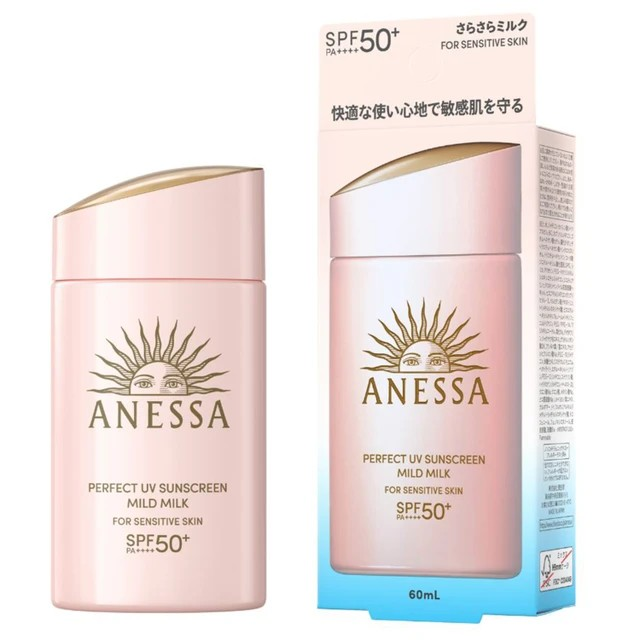
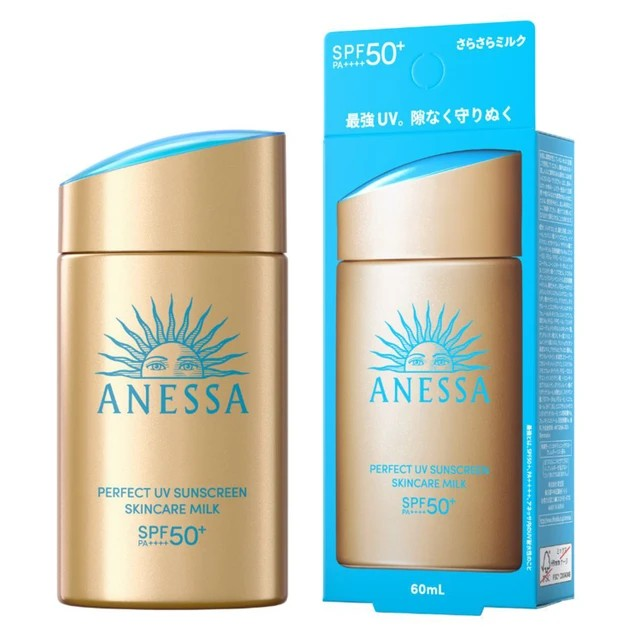
Hoàn thiện và đăng chính thức Anessa Perfect UV Skincare Milk Na
Chủ website gửi lại đúng thư mục ảnh (dòng kiềm dầu, khác Mild Milk).
Vẽ lại 2/6 ảnh có mặt người thay vì bỏ hẳn, giữ nội dung hợp lệ.

diff --git a/CLAUDE.md b/CLAUDE.md
@@ -449,11 +449,11 @@ Chủ website yêu cầu (tháng 9/2026): 4 khu bán hàng riêng biệt, mỗi 
 - **Video ngắn giới thiệu sản phẩm** (không bắt buộc, thêm tháng 9/2026): khác với "Video ngắn" ở trang chủ (liên kết ra Facebook/YouTube, mở tab mới, xem mục "Video ngắn" phía trên) — video sản phẩm là **file tự tải lên, phát ngay trên trang** bằng thẻ `<video>` chuẩn của trình duyệt (không nhúng mã bên thứ ba). Đặt file trong `public/videos/<tên-sản-phẩm>/`, điền frontmatter `video` (đường dẫn bắt đầu bằng `/videos/...`, build báo lỗi nếu không đúng dạng) và `videoThumbnail` (ảnh đại diện/poster, bắt buộc đi kèm — không tự trích được khung hình từ file video). Có video thì video hiện là **lựa chọn đầu tiên và MẶC ĐỊNH đang mở** trong khung ảnh chính khi vào trang (ảnh sản phẩm lùi thành lựa chọn kế tiếp trong dải ảnh nhỏ, bấm vào mới đổi sang xem ảnh) — khác với hành vi ban đầu (video chỉ là 1 lựa chọn trong dải ảnh nhỏ, mặc định vẫn hiện ảnh). Bấm ảnh nào trong dải ảnh nhỏ thì video tự dừng; hiệu ứng kính lúp phóng to (rê chuột) tự tắt khi đang xem video. Xem `[department]/[slug].astro` (biến `hasVideo`) và `content.config.ts`.
   - **Trạng thái tháng 9/2026:** đang gắn **tạm 1 video mẫu** (không phải video thật, do chủ website gửi để xem thử giao diện) vào sản phẩm Cốm vi sinh Lacto Biomin Gold+ để xem trực tiếp trên web — cần thay bằng video thật của sản phẩm hoặc gỡ bỏ (xóa 2 dòng `video`/`videoThumbnail` và file trong `public/videos/`) khi chủ website xác nhận xong.
 - **Trạng thái tháng 9/2026 (cập nhật tháng 10/2026):** khu Thực phẩm chức năng — 37 sản phẩm đã đăng: Blackmores Omega Double (650.000đ/lọ 90 viên, ảnh thật + 2 ảnh phụ do chủ website gửi tháng 10/2026 thay cho ảnh giữ chỗ ban đầu, số công bố 8591/2021/ĐKSP, chuyển sang nhóm con mới **"Dầu cá - Omega 3"** — xem mục "Nhóm cha/nhóm con ở menu trái" — thay vì nhóm "Vitamin & khoáng chất" chung chung lúc trước), Cốm vi sinh Lacto Biomin Gold+, Feroglobin B12 viên, Osteocare viên, Siro Feroglobin B12, Siro Osteocare, Liveril (nhóm "Gan - Mật", số công bố 8719/2019/ĐKSP), Pregnacare Plus Omega-3 (nhóm "Vitamin tổng hợp", dual pack viên nén + viên nang Omega-3 cho mẹ bầu/mẹ cho con bú, số công bố 9184/2019/ĐKSP), Pregnacare Max (nhóm "Vitamin tổng hợp", bản nâng cao của Pregnacare Plus — có thêm canxi và acid folic dạng L-Methylfolate, số công bố 1475/2024/ĐKSP, **sản phẩm khuyến mãi đầu tiên của site**: giá 495.000đ, giá gốc 550.000đ, tự hiện nhãn "-10%"), Visionace Original (nhóm "Mắt & thị lực", hỗ trợ thị lực, 432.000đ, **chưa điền số công bố** vì ảnh nhãn quá mờ — xem ghi chú), Pregnacare Breast-feeding (nhóm "Vitamin tổng hợp", dual pack cho mẹ cho con bú, 712.000đ, số công bố 10645/2019/ĐKSP), và 3 sản phẩm **Doppelherz (Đức, nhập bởi Công ty CP Mastertran, KHÔNG có video, chỉ ảnh)**: Aktiv Vital Pregna (nhóm "Vitamin tổng hợp", 375.000đ), Aktiv Anti Stress (nhóm "Thần kinh & trí nhớ", 349.000đ, công dụng ghi đúng nhãn là giảm căng thẳng/tập trung, không ghi "cải thiện trí nhớ"), Aktiv Omega-3 + Folic acid + B6 + B12 (nhóm "Vitamin tổng hợp", 335.000đ) — ảnh chỉ dùng ảnh hộp/vỉ/nhãn sạch, đã LOẠI các banner có logo Nhà thuốc Long Châu (xem ghi chú) — và **6 sản phẩm Doppelherz đợt 2** (cũng không video, banner tự thiết kế): Aktiv Liver Complex (Gan - Mật, 395.000đ), Aktiv-Meno (nhóm mới "Sinh lý - Nội tiết tố", 411.000đ), Aktiv Magnesium + Calcium + D3 (Canxi & Vitamin D, 375.000đ), Aktiv Coenzyme Q10 (Tim mạch, 375.000đ, số công bố 8117/2019/ĐKSP do chủ website xác nhận), Kinder Omega-3 Syrup (Thần kinh & trí nhớ, 535.000đ, số công bố 2876/2018/ĐKSP do chủ website xác nhận, không đưa câu ADHD trên nhãn vào bài), Kinder Optima Mini-Tabs (Đề kháng & miễn dịch, 506.000đ) — cùng 2 sản phẩm kẽm cho trẻ, không video, banner tự thiết kế, nhóm "Vitamin & khoáng chất": Smartbibi Zinc (Ý, 275.000đ, chưa có số công bố/nhà nhập khẩu vì nhãn không in), Siro Biolizin (Tây Ban Nha, 315.000đ, số công bố 7176/2021/ĐKSP) — 10 sản phẩm Vitabiotics ở trên (Anh), nhập bởi VE Pharma, nội dung lấy từ ảnh nhãn chủ website gửi, xem `docs/ghi-chu-kiem-duyet-san-pham.md` — cùng **1 sản phẩm cho trẻ em đang ở dạng nháp chờ duyệt** (Siro Wellbaby Multi-vitamin Liquid, `draft: true` dù đã có giá 412.000đ, vì ảnh nhãn phụ tiếng Việt gửi tới mờ không đọc rõ số công bố sản phẩm và đây là sản phẩm cho trẻ từ 4 tháng tuổi — cần dược sĩ xác nhận kỹ trước khi đăng, xem ghi chú) và 1 sản phẩm mẫu (`draft: true`, chỉ thấy khi `npm run dev`). Khu **Chăm sóc cá nhân** có **2 sản phẩm** (thêm tháng 9/2026, cùng nhóm con "Sữa tắm gội em bé" của "Chăm sóc mẹ và bé", xem mục "Nhóm cha/nhóm con ở menu trái"; cả hai không video, banner tự thiết kế, đã LOẠI ảnh có logo Nhà thuốc Long Châu, chưa điền số công bố vì mã in trên nhãn phụ không đúng định dạng số tiếp nhận công bố mỹ phẩm Việt Nam — có vẻ là mã lô/mã tham chiếu nội bộ, không tự suy đoán): Sữa tắm gội Cetaphil Baby dịu nhẹ với hoa cúc Calendula hữu cơ (240.000đ, giá gốc 290.000đ, "-17%", mã nhãn GVNAW-060713-100424) và Sữa tắm gội Cetaphil Baby Gentle Wash & Shampoo dịu nhẹ cho da và tóc bé (205.000đ, giá gốc 240.000đ, "-15%", mã nhãn GVNAW-060665-100424, công thức 2 trong 1 với glycerin & panthenol, không có hoa cúc/lô hội như bản kia). Cả hai đều thương hiệu Cetaphil (Galderma), xuất xứ Đức. Khu **Thiết bị y tế vẫn chưa có sản phẩm nào**, hiện "Sản phẩm đang được cập nhật"; menu và trang nhóm đã có sẵn, chỉ cần thêm bài sản phẩm khi chủ website gửi thông tin.
-- **Khu Dược mỹ phẩm — 4 sản phẩm kem/tinh chất chống nắng đầu tiên** (tháng 10/2026, nhóm con mới **"Kem chống nắng da mặt"** — chuyển nhóm `chong-nang` vốn đã có sẵn thành nhóm con của "Chăm sóc da mặt" thay vì đứng ngang hàng, dùng lại icon `sun`, đúng đường dẫn 3 cấp chủ website đưa ra): Anessa Perfect UV Sunscreen Mild Milk (Nhật Bản, SPF50+ PA++++, 445.000đ, giá gốc 700.000đ "-36%"), La Roche-Posay Anthelios XL Anti-Shine (Pháp, SPF50+, 480.000đ, giá gốc 610.000đ "-21%", có đủ thành phần hoạt chất chống nắng % cụ thể từ nhãn tiếng Anh), Transino Whitening UV Protector (Nhật Bản, SPF50+ PA++++, 720.000đ, không khuyến mãi, số công bố mỹ phẩm 198569/23/CBMP-QLD), Sunplay Tone Up UV Essence (Việt Nam — xem ghi chú xuất xứ bên dưới, SPF50+ PA++++, 178.000đ, giá gốc 205.000đ "-13%"). Không có video, không logo bên thứ ba nào trong bộ ảnh nhà phân phối gửi lần này.
+- **Khu Dược mỹ phẩm — 5 sản phẩm kem/tinh chất chống nắng đầu tiên** (tháng 10/2026, nhóm con mới **"Kem chống nắng da mặt"** — chuyển nhóm `chong-nang` vốn đã có sẵn thành nhóm con của "Chăm sóc da mặt" thay vì đứng ngang hàng, dùng lại icon `sun`, đúng đường dẫn 3 cấp chủ website đưa ra): Anessa Perfect UV Sunscreen Mild Milk (Nhật Bản, SPF50+ PA++++, 445.000đ, giá gốc 700.000đ "-36%"), La Roche-Posay Anthelios XL Anti-Shine (Pháp, SPF50+, 480.000đ, giá gốc 610.000đ "-21%", có đủ thành phần hoạt chất chống nắng % cụ thể từ nhãn tiếng Anh), Transino Whitening UV Protector (Nhật Bản, SPF50+ PA++++, 720.000đ, không khuyến mãi, số công bố mỹ phẩm 198569/23/CBMP-QLD), Sunplay Tone Up UV Essence (Việt Nam — xem ghi chú xuất xứ bên dưới, SPF50+ PA++++, 178.000đ, giá gốc 205.000đ "-13%"). Không có video, không logo bên thứ ba nào trong bộ ảnh nhà phân phối gửi lần này.
   - **3 ảnh của Anessa có mặt người thật hoặc so sánh trực tiếp — đã vẽ lại thay vì bỏ hẳn** (đúng tinh thần quy tắc "đăng hết ảnh... ưu tiên tìm cách vẫn đăng được"): ảnh "Không chứa 5 thành phần" và ảnh "Phù hợp mọi loại da" đều có cận mặt người mẫu thật — tách riêng phần nội dung chữ hợp lệ (không chứa cồn/màu/mùi/paraben/dầu khoáng; phù hợp da nhạy cảm/trẻ từ 6 tháng tuổi, kèm chú thích nguồn thử nghiệm) và vẽ lại bằng mẫu bảng thành phần nền tím; ảnh "Công nghệ Smooth Protect Air" so sánh trực tiếp "chống nắng khác" vs "Anessa Mild Milk" — vẽ lại bỏ hẳn khung so sánh, chỉ mô tả công nghệ của riêng sản phẩm. 1 ảnh La Roche-Posay (người mẫu thoa kem cận mặt) bị loại hẳn không vẽ lại vì nội dung đã trùng lặp hoàn toàn với 3 ảnh sạch khác (không có dữ liệu mới).
   - **Sunplay Tone Up UV Essence — ban đầu để `draft: true` vì ảnh bị gửi NHẦM, sau đã sửa và đăng chính thức** (chủ website gửi nhầm đường dẫn ảnh "Anessa Perfect UV" lúc đầu — thư mục đó chỉ có ảnh của Anessa Mild Milk, không phải Sunplay/Rohto; tôi giữ `draft: true` dù chủ website xác nhận "cứ đăng", vì hiển thị sai hẳn thương hiệu cho khách là vấn đề trung thực sản phẩm, không phải lựa chọn biên tập có thể bỏ qua). Chủ website sau đó tự nhận ra và gửi lại đúng thư mục ảnh ("Sunplay Tone Up UV", 5 ảnh, không logo/mặt người) — đã viết lại hoàn toàn nội dung từ ảnh nhãn thật (mặt sau bao bì, 2/5 ảnh) và đổi `draft: false`: 178.000đ (giá gốc 205.000đ, "-13%"), tông màu Lavender, chứa chiết xuất mận Kakadu, rau má, Hyaluronic Acid. **Xuất xứ ghi "Việt Nam", không phải "Nhật Bản" như chủ website nhắn ban đầu** — nhãn thật ghi rõ "Chịu trách nhiệm đưa sản phẩm ra thị trường: Công ty TNHH Rohto-Mentholatum (Việt Nam)... Sản xuất dưới quyền của Rohto Pharmaceutical Co., Ltd, Osaka, Nhật Bản" tức sản xuất tại Việt Nam theo giấy phép nhượng quyền từ công ty mẹ Nhật Bản — cùng kiểu nhầm lẫn đã gặp ở Syrup Kan (Slovakia/Slovenia): ưu tiên thông tin trên nhãn thật thay vì tin nhắn, đúng nguyên tắc 1/10.
     - **Bài học quy trình:** khi chủ website tự nhận ra và sửa lỗi gửi nhầm đường dẫn ảnh (thay vì chỉ nói "cứ đăng" để lấp liếm qua), cách xử lý đúng là XÓA HẲN nội dung placeholder "Bản nháp — cần ảnh thật" cũ và viết lại toàn bộ bài bằng dữ liệu thật mới — không giữ lại cả 2 bộ nội dung hay chỉ thêm ảnh mới vào bài placeholder cũ.
-  - **Anessa Perfect UV Skincare Milk Na — vẫn còn `draft: true`, CHƯA được chủ website gửi lại đúng ảnh** (tính đến thời điểm này): đây là sản phẩm còn lại duy nhất trong đợt bị gửi nhầm ảnh "Anessa Perfect UV" (thư mục đó chỉ có ảnh Anessa Mild Milk dịu nhẹ, không phải dòng Skincare Milk Na kiềm dầu). Giữ nguyên nội dung placeholder "Bản nháp — cần ảnh và nội dung thật trước khi đăng" cho tới khi có ảnh đúng.
+  - **Anessa Perfect UV Skincare Milk Na — đã nhận đúng ảnh, hoàn thiện và đăng chính thức** (chủ website gửi lại thư mục ảnh đúng "kiềm dầu Anessa Perfect UV", 6 ảnh): 442.000đ (giá gốc 700.000đ, "-37%"), dòng kiềm dầu (phân biệt với Mild Milk dịu nhẹ ở trên), công nghệ Auto Veil/Auto Booster tự phục hồi màng chống tia UV khi gặp nước/mồ hôi. **2/6 ảnh bị loại vì có mặt người** (1 ảnh "7 tác động" có khuôn mặt phụ nữ cận cảnh ở rìa ảnh dù đã cắt/zoom, 1 ảnh collage "Phù hợp sử dụng" có nhiều ảnh nhỏ người tập thể thao/yoga) — đã vẽ lại 2 ảnh này bằng mẫu bảng thành phần nền tím, giữ nguyên nội dung chữ hợp lệ (7 tác động cụ thể kèm chú thích nguồn thử nghiệm Shiseido Global Innovation Center; phù hợp dùng hằng ngày/ngoài trời/thể thao). Không có nhãn phụ tiếng Việt trong bộ ảnh nên để trống `publicationNo`/`ingredients` thay vì suy đoán.
   - **Fitobimbi Immuno** (tháng 10/2026, nhóm "Đề kháng & miễn dịch", Ý — chủ website xác nhận, 385.000đ/chai 200ml, số công bố 2660/2020/ĐKSP — chủ website xác nhận, không video): siro bổ sung kẽm/đồng/vitamin B6/vitamin E/chiết xuất thảo dược cho trẻ, thương hiệu Fitobimbi (Pharmalife Research), thành phần đầy đủ theo nhãn phụ chủ website gửi. Ảnh phụ (lợi ích/thành phần/hướng dẫn dùng) đã đổi sang bản logo+chữ "Dược Sĩ Thương" (thêm chữ cạnh logo tròn, không chỉ riêng logo — chủ website yêu cầu làm rõ hơn bản đầu).
     - **Kỹ thuật mới: thay logo thương hiệu khác trên ảnh banner có sẵn bằng logo Dược Sĩ Thương**, dùng khi chủ website gửi ảnh minh họa (lợi ích, thành phần, hướng dẫn dùng...) do nhà phân phối thiết kế sẵn nhưng có đóng dấu thương hiệu/logo của hãng khác ở đầu ảnh. Cách làm (dùng `sharp`, đã có sẵn trong dự án cho favicon/logo): (1) đo tọa độ vùng logo cũ bằng cách quét màu pixel từng hàng/cột (`sharp(...).raw().toBuffer()`, tìm biên vùng trắng) thay vì áng chừng bằng mắt; (2) vẽ đè một khối nền trắng bo góc (SVG `<rect rx=...>` rasterize qua `sharp`) đủ lớn để che hết vùng cũ đo được; (3) cắt tròn logo chính thức (`src/assets/logo.jpg`, dùng mask SVG hình tròn), **kèm chữ "Dược Sĩ Thương" vẽ bằng SVG `<text>` (font Arial đậm, màu `#14532d`) đặt ngay cạnh phải logo** — bản đầu chỉ ghép mỗi logo tròn, chủ website yêu cầu thêm chữ cho rõ thương hiệu, không chỉ dựa vào ảnh chân dung nhỏ khó nhận ra — rồi ghép (`composite`) cả khối logo+chữ vào giữa nền trắng đó. Làm thử trên 1 ảnh, xem lại bằng mắt (Read tool) trước khi áp dụng hàng loạt cho các ảnh còn lại cùng bộ — tọa độ đo được từ 1 ảnh dùng chung cho cả bộ nếu các ảnh cùng kích thước và cùng vị trí logo (đúng trường hợp các ảnh nhà phân phối Fitobimbi gửi, đều 1024×1024, logo cùng 1 chỗ dù khác sản phẩm).
   - **Fitobimbi D3+K2** (tháng 10/2026, nhóm "Canxi & Vitamin D", Ý, 290.000đ/chai 30ml, số công bố 8382/2020/ĐKSP — cả hai do chủ website xác nhận, không video): giọt uống bổ sung vitamin D3 (2,5mcg) và K2 (11,25mcg)/5 giọt, dùng được từ 1 ngày tuổi, cùng thương hiệu Fitobimbi (Pharmalife Research) với Fitobimbi Immuno ở trên — áp dụng đúng kỹ thuật thay logo+chữ như trên cho ảnh phụ. Ảnh gốc "Dùng được cho trẻ từ 1 ngày tuổi" nhà phân phối gửi có lồng ảnh bé gái ôm bụng minh họa "trẻ còi xương do kém hấp thu canxi" — không dùng ảnh này (nội dung minh họa không khớp, trông giống bé đau bụng hơn là còi xương) — chỉ lấy phần CHỮ "đối tượng sử dụng" từ ảnh đó viết vào bài, đúng nguyên tắc không dùng ảnh gây hiểu lầm/không phù hợp (mục "Hình ảnh trong bài viết" ở trên).

diff --git a/src/content/products/anessa-perfect-uv-skincare-milk-na-60ml.md b/src/content/products/anessa-perfect-uv-skincare-milk-na-60ml.md
@@ -1,6 +1,6 @@
 ---
 name: "Kem chống nắng kiềm dầu Anessa Perfect UV Sunscreen Skincare Milk Na SPF50+ PA++++ 60ml"
-summary: "Sữa chống nắng kiềm dầu SPF50+ PA++++ của Anessa (Nhật Bản)."
+summary: "Sữa chống nắng kiềm dầu SPF50+ PA++++ của Anessa (Nhật Bản), kết cấu thoáng nhẹ, kiềm dầu suốt 12 giờ (theo công bố của nhà sản xuất)."
 department: "duoc-my-pham"
 group: "chong-nang"
 price: 442000
@@ -11,17 +11,50 @@ origin: "Nhật Bản"
 dosageForm: "Sữa chống nắng"
 ingredients: ""
 image: "../../assets/products/anessa-perfect-uv-skincare-milk-na-60ml/anh.jpg"
-imageAlt: "ẢNH TẠM — chưa đúng sản phẩm, cần thay ảnh thật của Anessa Skincare Milk Na trước khi đăng"
+imageAlt: "Tuýp và hộp kem chống nắng Anessa Perfect UV Sunscreen Skincare Milk Na 60ml, nhãn vàng ánh kim-xanh dương, SPF50+ PA++++"
+gallery:
+  - "../../assets/products/anessa-perfect-uv-skincare-milk-na-60ml/anh-2.jpg"
+  - "../../assets/products/anessa-perfect-uv-skincare-milk-na-60ml/anh-3.jpg"
+  - "../../assets/products/anessa-perfect-uv-skincare-milk-na-60ml/anh-4.jpg"
+  - "../../assets/products/anessa-perfect-uv-skincare-milk-na-60ml/hinh-1.jpg"
+  - "../../assets/products/anessa-perfect-uv-skincare-milk-na-60ml/hinh-2.jpg"
 publicationNo: ""
 adConfirmationNo: ""
 updatedAt: 2026-10-08
-draft: true
+draft: false
 ---
 
-## Bản nháp — cần ảnh và nội dung thật trước khi đăng
+## Mô tả sản phẩm
 
-**Chưa có ảnh thật của sản phẩm này.** Chủ website gửi nhầm đường dẫn ảnh (trỏ tới thư mục ảnh của Anessa Perfect UV **Mild Milk** — dòng sản phẩm khác, chai hồng dành cho da nhạy cảm, không phải dòng **Skincare Milk Na** kiềm dầu này). Ảnh đại diện hiện tại chỉ là ảnh tạm giữ chỗ, **không được đổi `draft: false` khi chưa thay ảnh đúng**.
+**Anessa Perfect UV Sunscreen Skincare Milk Na** là kem chống nắng dạng sữa của thương hiệu **Anessa** (Shiseido, Nhật Bản), chỉ số chống nắng SPF50+ PA++++, dòng kiềm dầu. Theo nhà sản xuất, sản phẩm ứng dụng công nghệ Auto Veil và Auto Booster giúp màng chống nắng tự phục hồi khi gặp nước, mồ hôi, giúp duy trì hiệu quả chống nắng bền bỉ trong ngày.
 
-Thông tin đã có (từ tin nhắn chủ website): giá gốc 700.000đ, giá khuyến mại 442.000đ, xuất xứ Nhật Bản, tuýp 60ml.
+![Hình ảnh đồ họa: màng chống tia UV của Anessa Skincare Milk Na bền bỉ trước 7 tác động (mồ hôi, nước, nhiệt độ cao, độ ẩm, chuyển động da, ma sát, suy yếu màng lọc UV)](../../assets/products/anessa-perfect-uv-skincare-milk-na-60ml/hinh-1.jpg)
+*Nguồn: tư liệu nhà phân phối Anessa.*
 
-Còn thiếu: ảnh thật của sản phẩm, thành phần, công dụng, cách dùng, số công bố mỹ phẩm — cần chủ website gửi ảnh nhãn sản phẩm thật (ảnh hộp/tuýp, nhãn phụ tiếng Việt nếu có) để viết nội dung chính xác, không tự suy đoán.
+**Mỹ phẩm, không phải là thuốc, không có tác dụng điều trị bệnh.**
+
+## Công dụng
+
+Theo nhà sản xuất, sản phẩm giúp chống nắng mạnh với kết cấu thoáng nhẹ, da ẩm mượt suốt 8 giờ, ráo nhanh không bết dính, kiềm dầu suốt 12 giờ (kết quả thử nghiệm với 27 phụ nữ tại Trung Quốc, theo công bố của nhà sản xuất). Công nghệ Auto Veil giúp tự động làm liền các vết đứt gãy của lớp màng chống tia UV; công nghệ Auto Booster giúp các phân tử liên kết thành lớp màng chống tia UV bền chặt hơn khi gặp nước, mồ hôi.
+
+![Hình ảnh đồ họa: Anessa Perfect UV Skincare Milk Na phù hợp dùng hằng ngày, hoạt động ngoài trời, chơi thể thao](../../assets/products/anessa-perfect-uv-skincare-milk-na-60ml/hinh-2.jpg)
+*Nguồn: tư liệu nhà phân phối Anessa.*
+
+## Đối tượng sử dụng
+
+Người có nhu cầu chống nắng kiềm dầu, dùng hằng ngày, khi hoạt động ngoài trời hoặc chơi thể thao.
+
+## Cách dùng
+
+Thoa đều lên mặt và cơ thể trước khi ra nắng. Thoa lại sau khi bơi, đổ mồ hôi nhiều hoặc lau khô da.
+
+## Lưu ý
+
+- Mỹ phẩm dùng ngoài da, chỉ dùng cho da mặt và cơ thể, tránh vùng mắt và niêm mạc.
+- Ngừng sử dụng và hỏi ý kiến bác sĩ da liễu nếu da có dấu hiệu kích ứng (đỏ, ngứa, rát).
+- Nên thử sản phẩm ở vùng da nhỏ trước khi dùng rộng, đặc biệt với da nhạy cảm.
+- Tránh để sản phẩm tiếp xúc với mắt; nếu dính vào mắt, rửa ngay bằng nước sạch.
+
+## Bảo quản
+
+Bảo quản nơi khô ráo, thoáng mát, tránh ánh nắng trực tiếp. Để xa tầm tay trẻ em.
